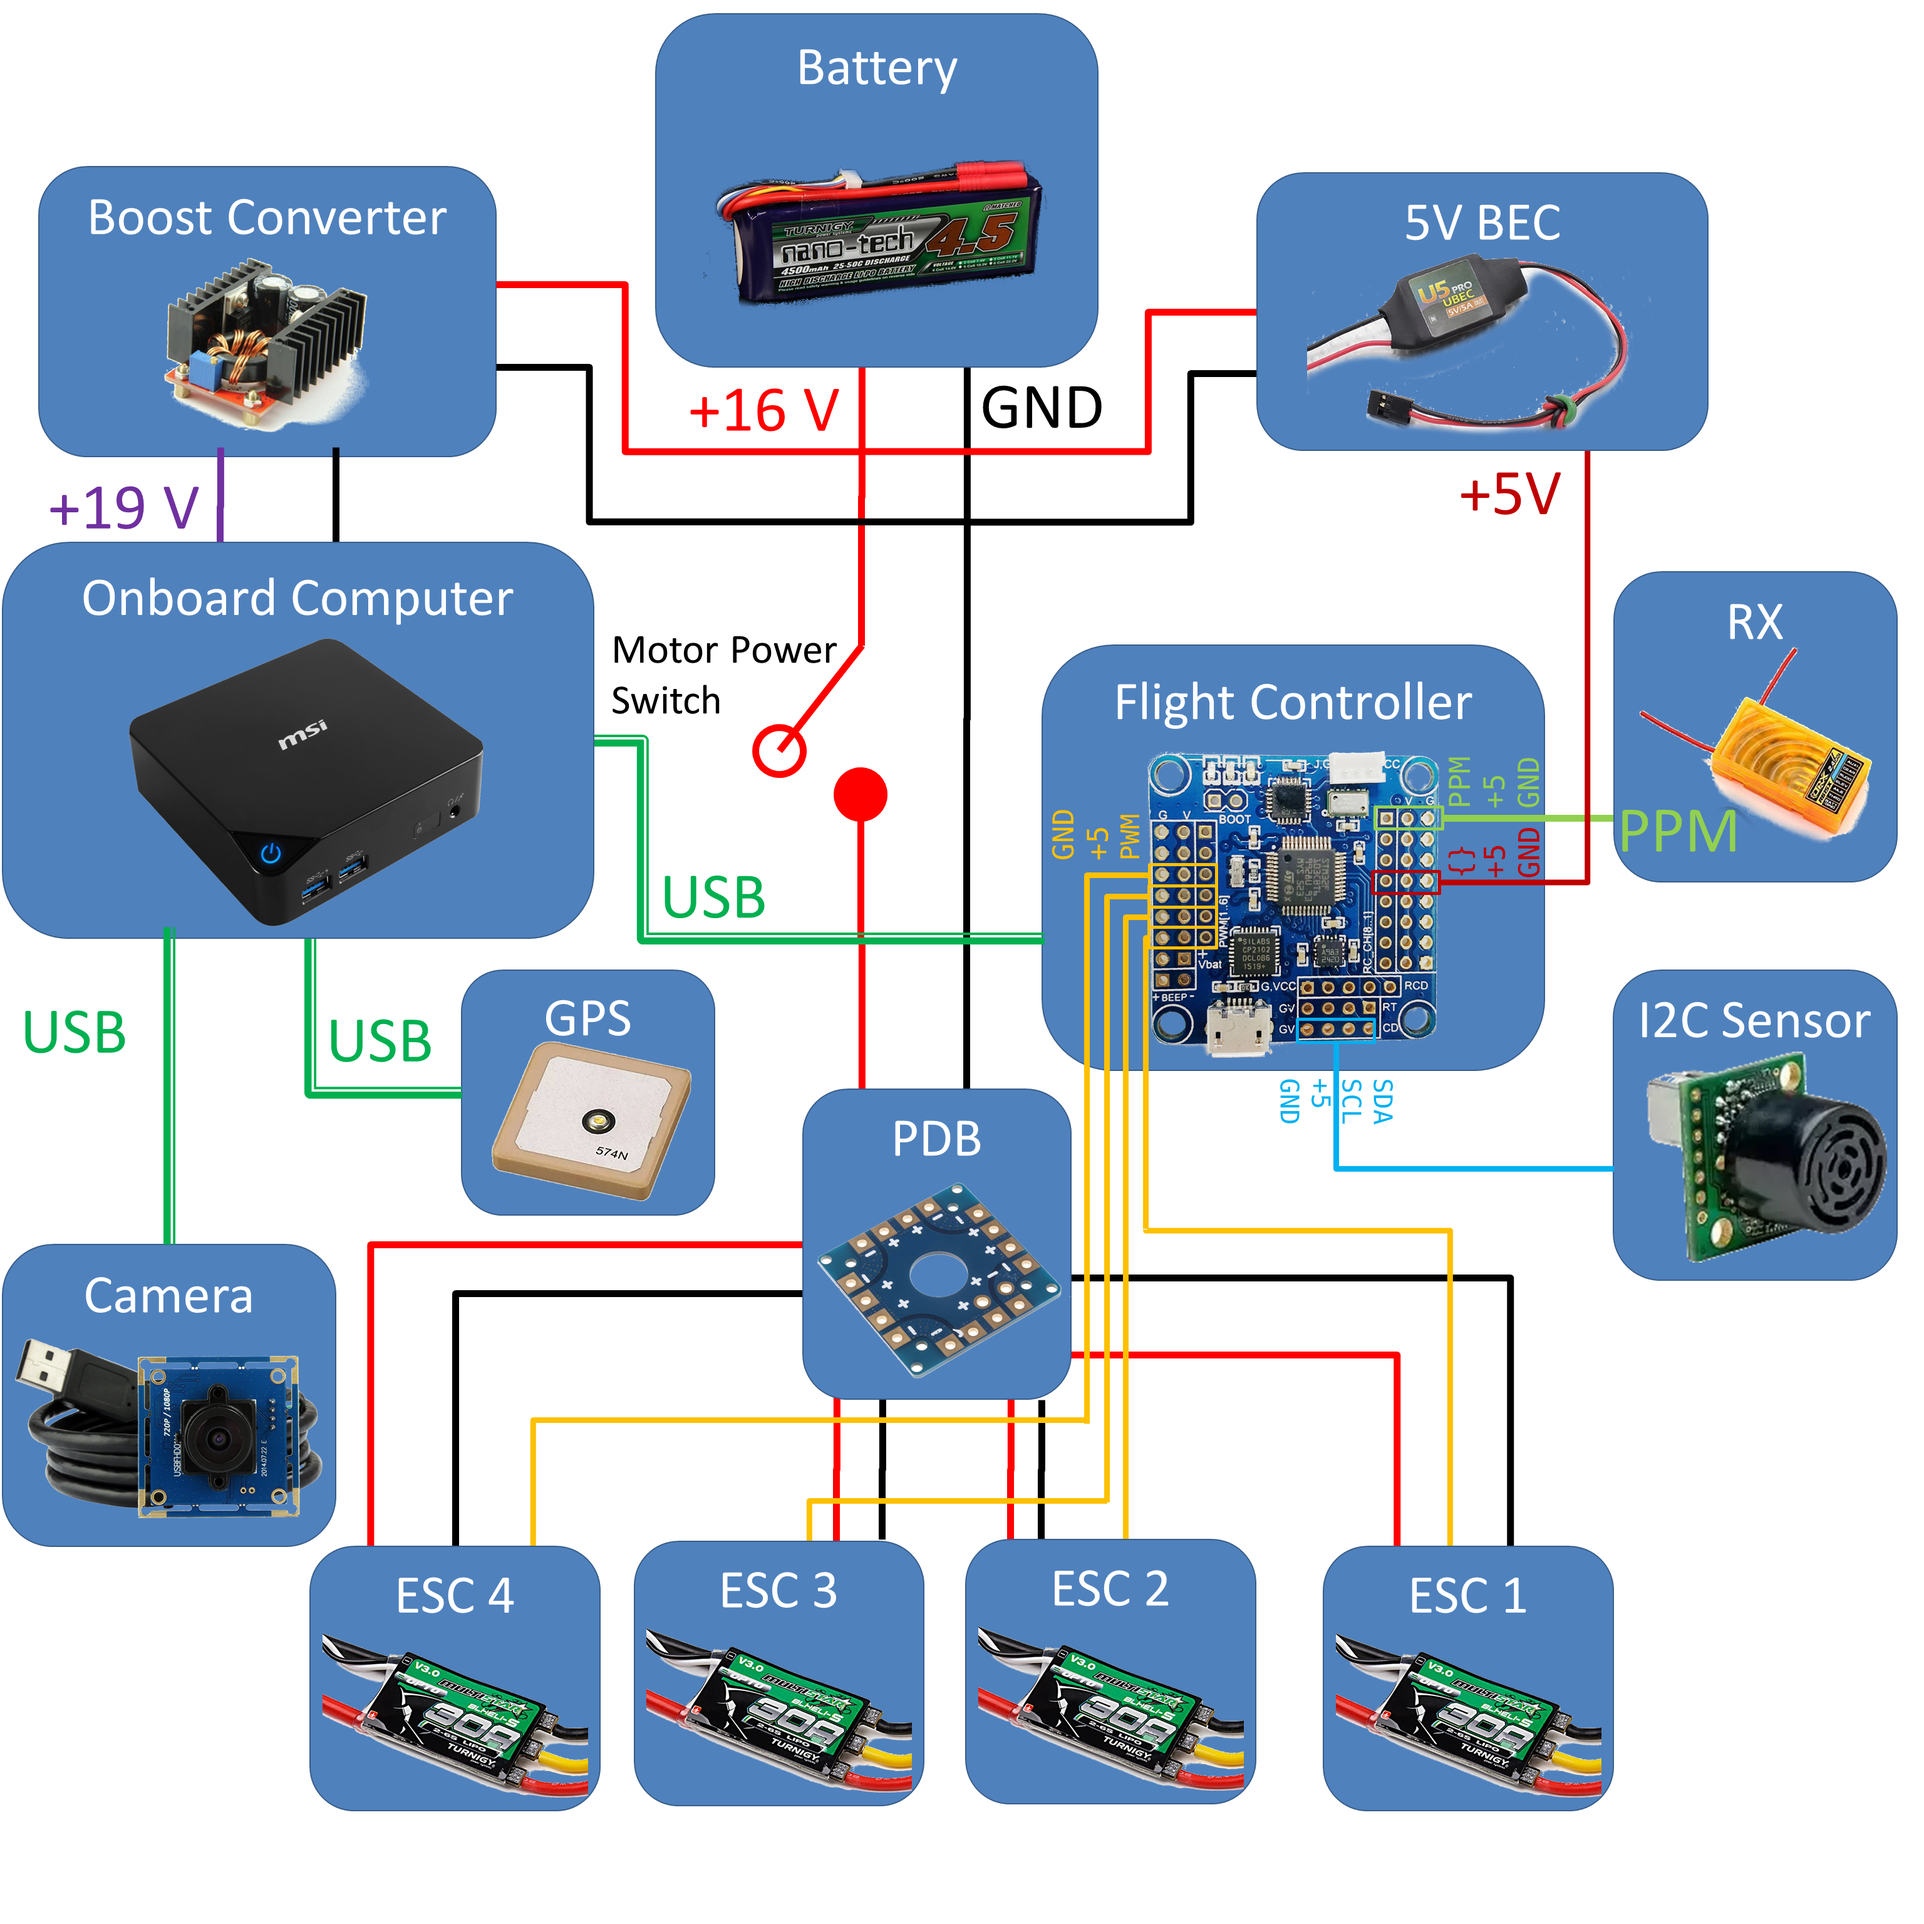
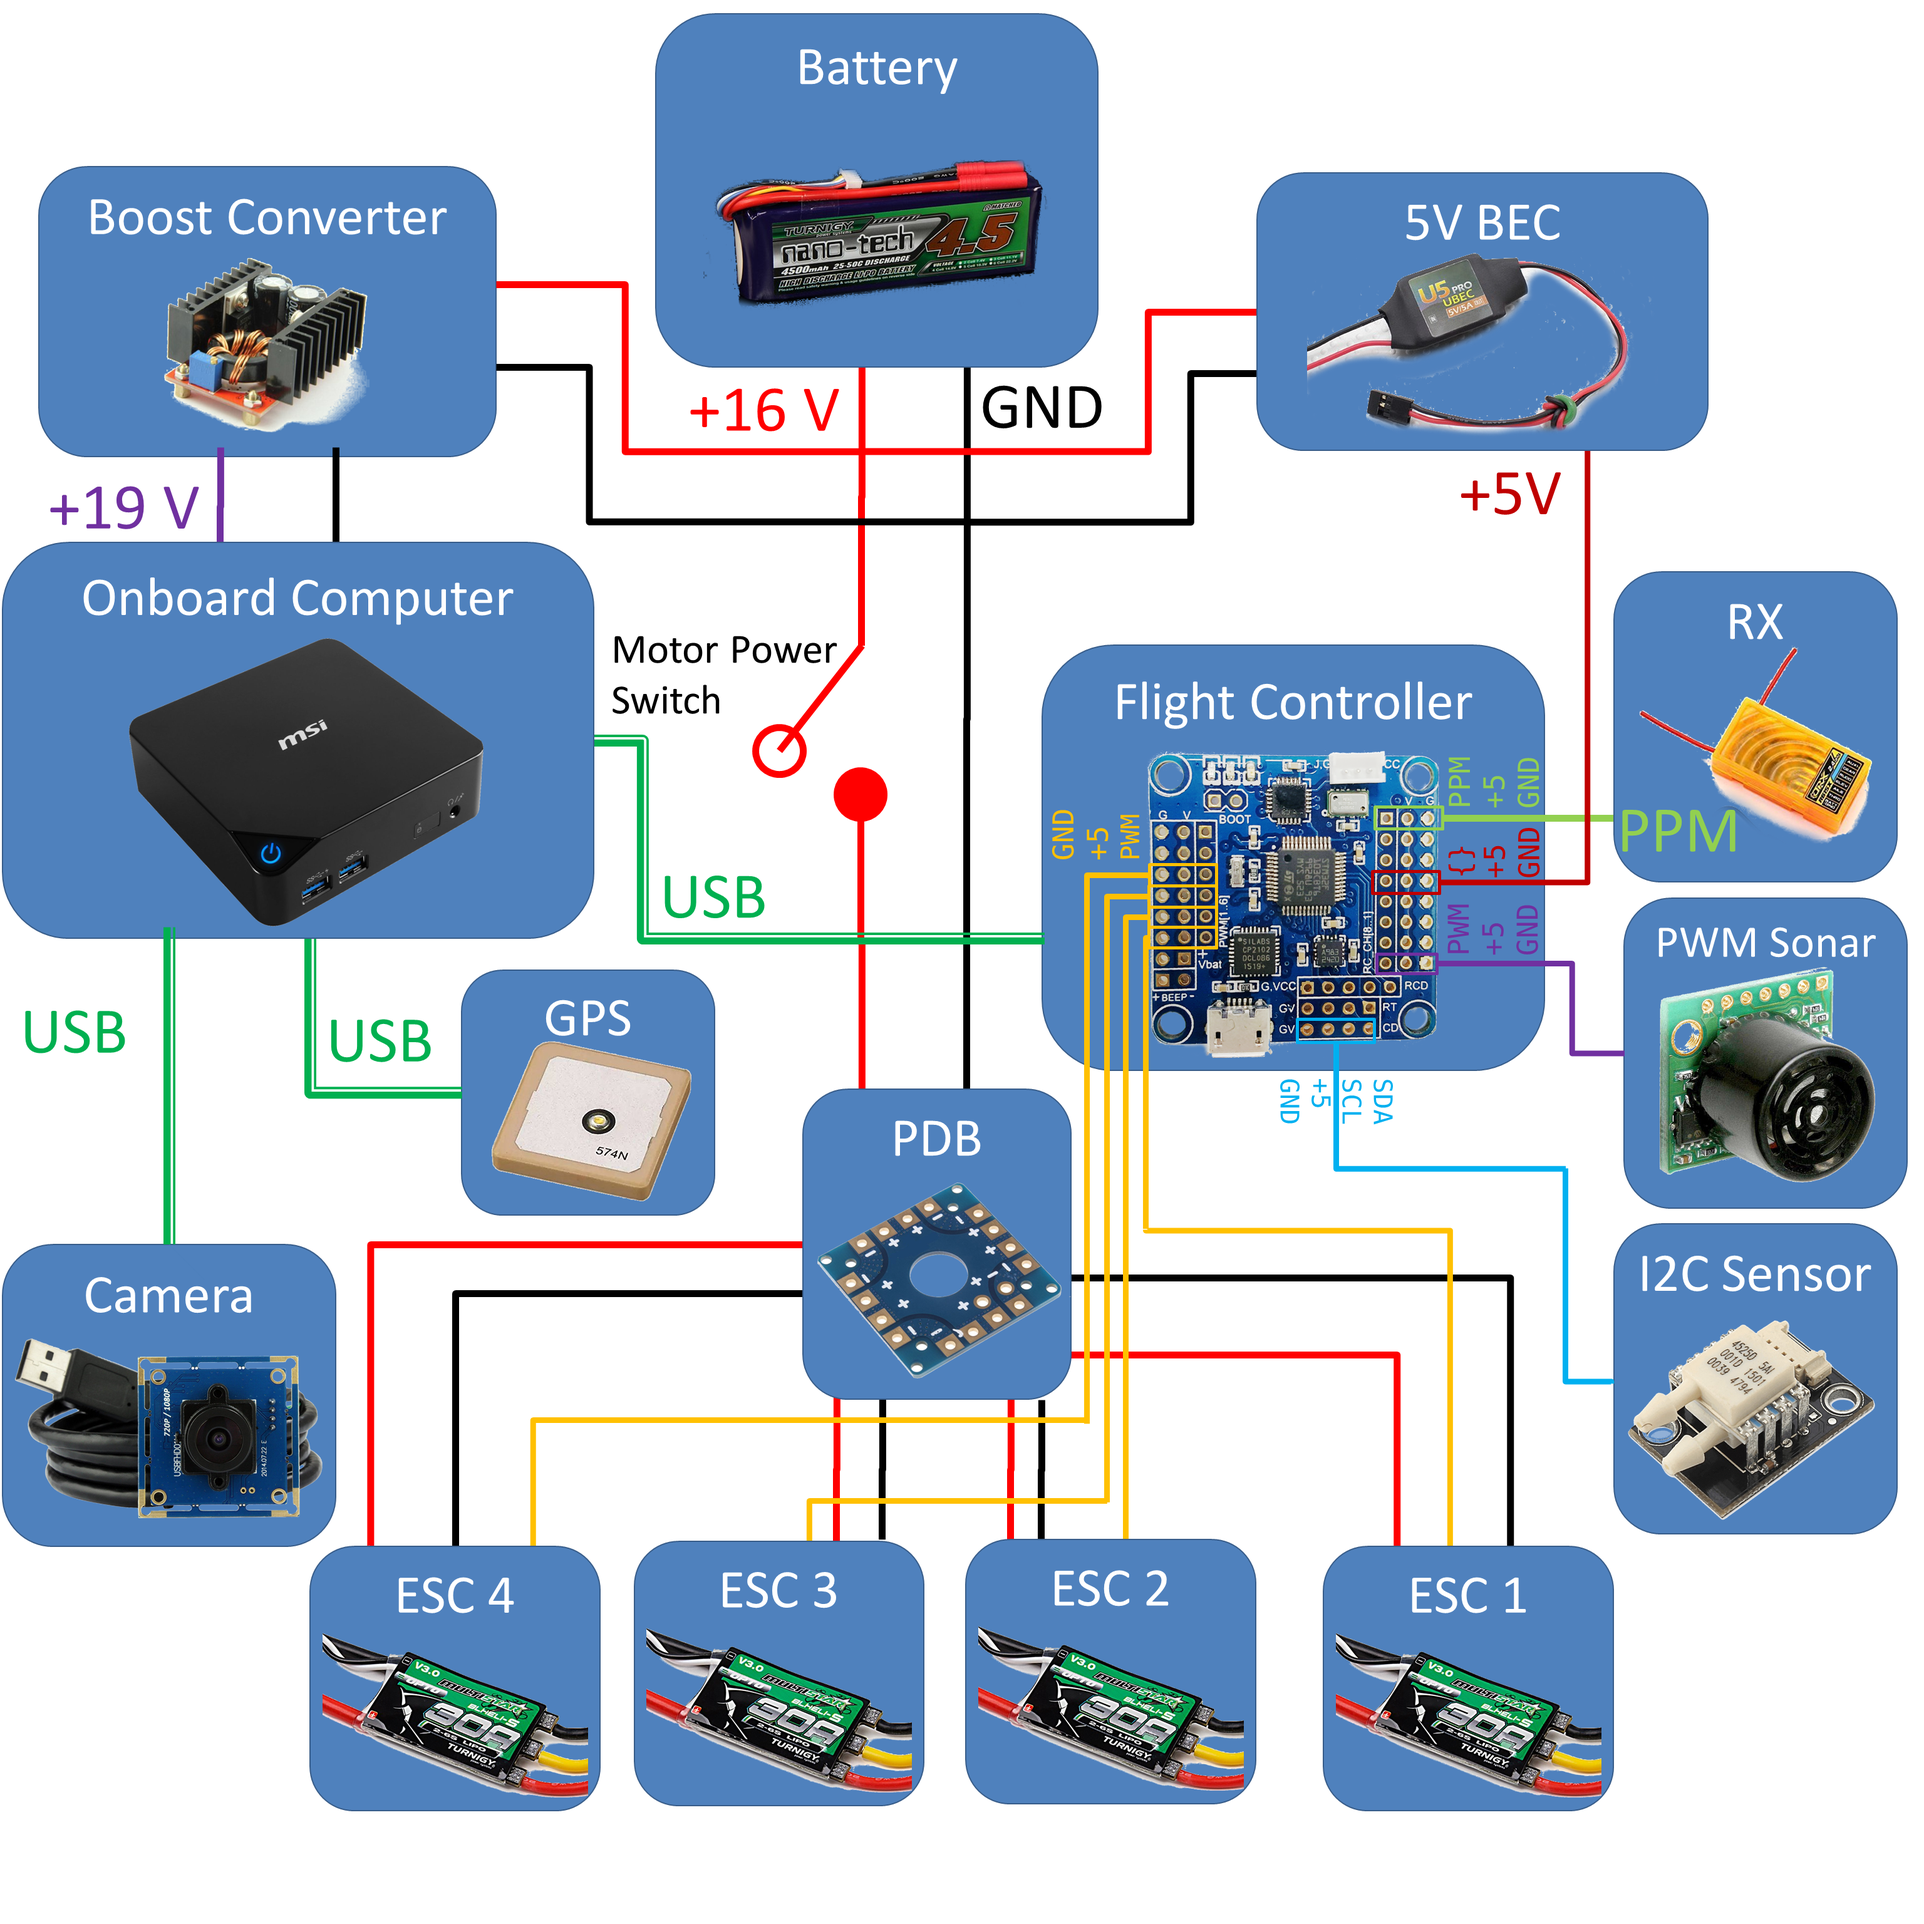
update images

Changed region(s): [[0.8125, 0.4688, 1.0, 0.8125], [0.75, 0.4688, 0.8125, 0.5]]

diff --git a/docs/user-guide/hardware-setup.md b/docs/user-guide/hardware-setup.md
@@ -34,11 +34,12 @@ ROSflight is best supported on the flip32+ from [readytoflyquads.com](http://www
 
 Additional Sensors you may want for your ROSflight setup include:
 
-* Sonar – MB1242 – [$40 on MaxBotix](http://www.maxbotix.com/Ultrasonic_Sensors/MB1242.htm)
-* GPS – Venus GPS – [$50 on Sparkfun](https://www.sparkfun.com/products/11058)
+* Sonar – MB1030 – [$25 on MaxBotix](https://www.maxbotix.com/Ultrasonic_Sensors/MB1030.htm)
+* GPS – UBLOX M8 – [$50 on getfpv](http://www.getfpv.com/holybro-ublox-neo-m8n-gps-module.html)
     - Requires FTDI USB-UART Converter – [$6 on Amazon](https://www.amazon.com/Blue3D-Ft232rl-Serial-Adapter-Arduino/dp/B012YUANZK/ref=sr_1_9?ie=UTF8&qid=1490068223&sr=8-9&keywords=FTDI+USB+converter)
-    - and Ceramic Antenna [$12 on Sparkfun](https://www.sparkfun.com/products/177)
 * Digital Airspeed Sensor – [$65 on JDrones](http://store.jdrones.com/digital_airspeed_sensor_p/senair02kit.html)
+
+The I2C sonar (MB124X) is also supported, but PWM sonars are preferred.
 
 
 ## Vibration Isolation
